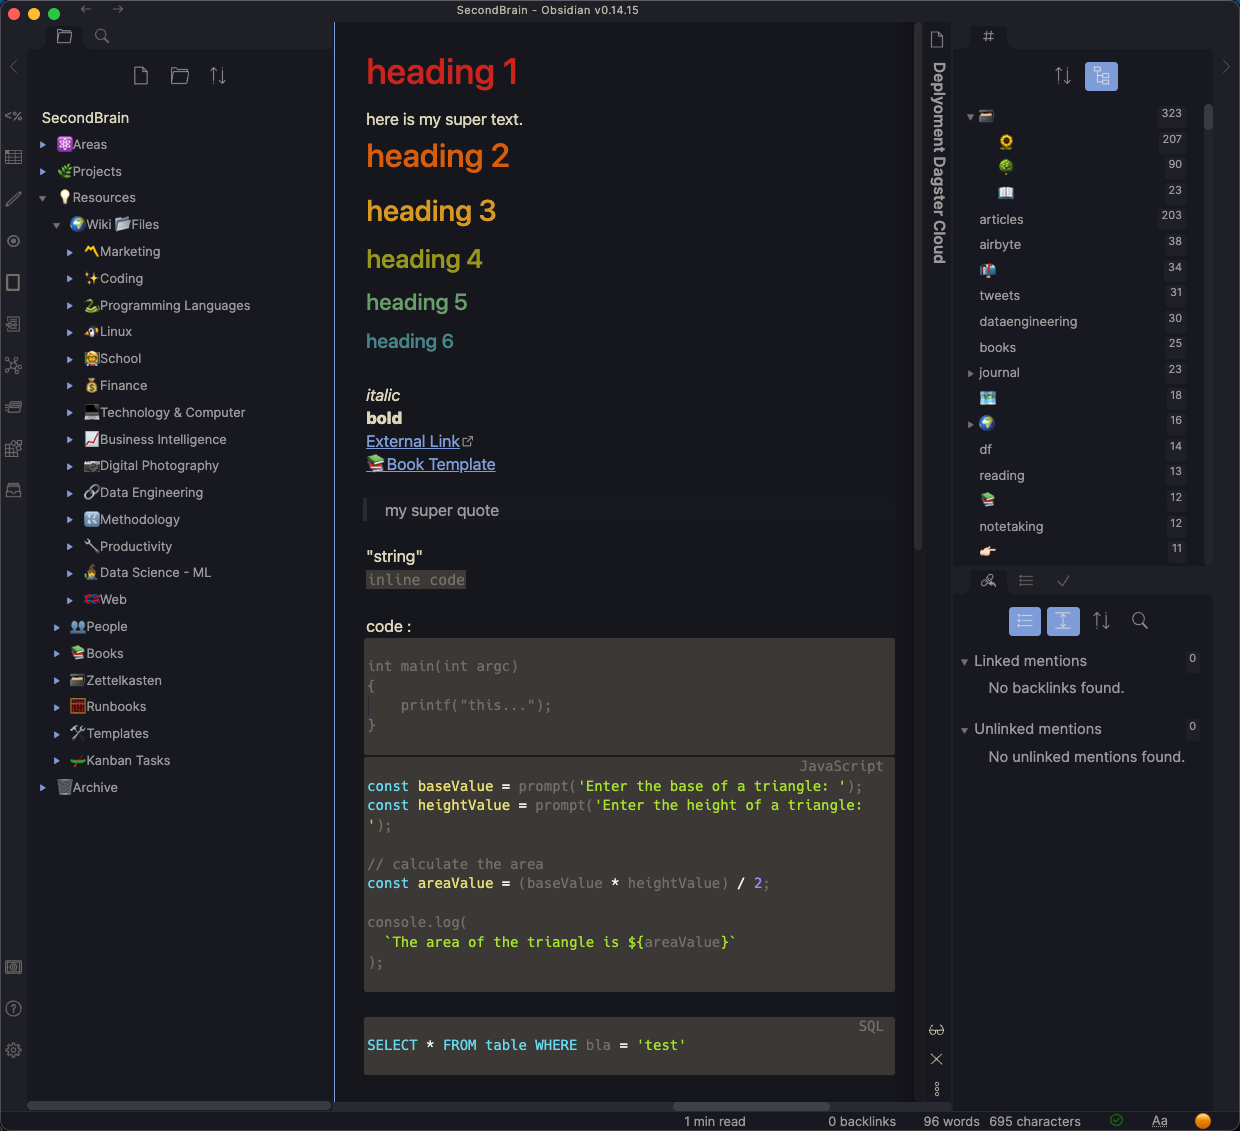
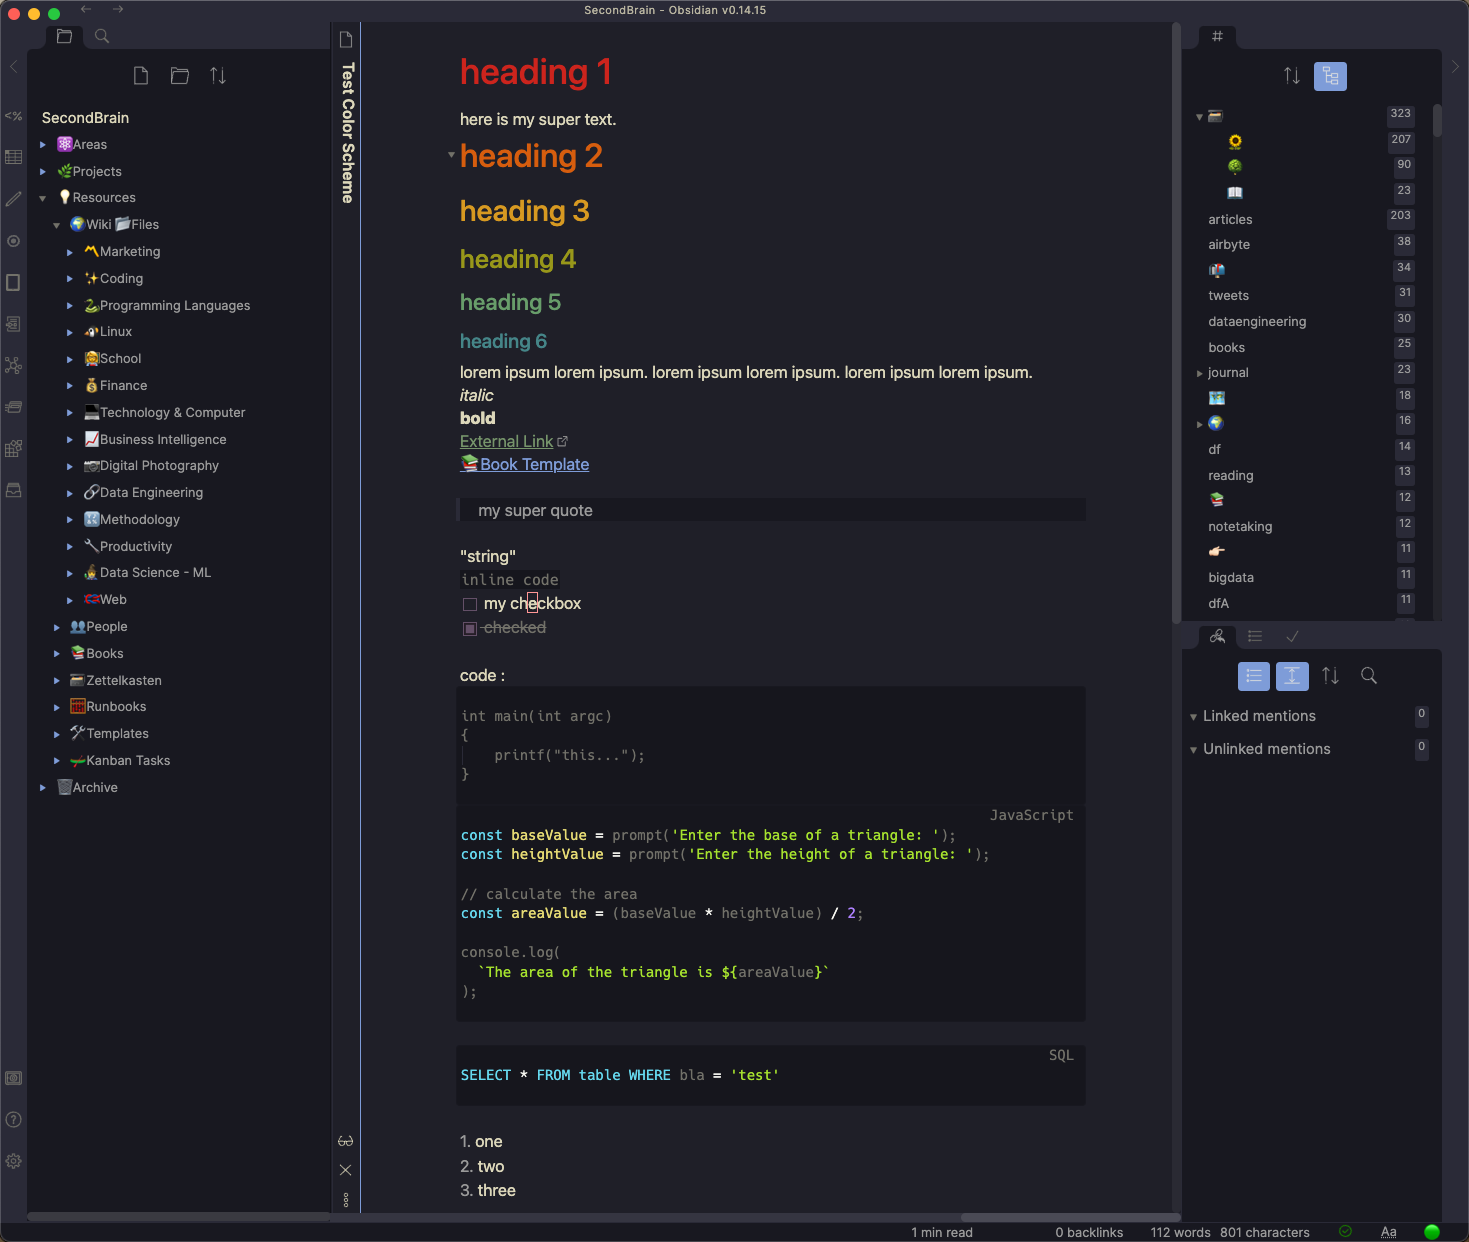
change colors a bit

diff --git a/obsidian_kanagawa.css b/obsidian_kanagawa.css
@@ -99,10 +99,10 @@
 
 .theme-dark
 {
-    --background-primary:         var(--sumiInk0);
-    --background-primary-alt:     var(--sumiInk0);
+    --background-primary:         var(--sumiInk1);
+    --background-primary-alt:     var(--sumiInk1);
     --background-secondary:       var(--sumiInk1b);
-    --background-secondary-alt:   var(--sumiInk1);
+    --background-secondary-alt:   var(--sumiInk2);
     --text-normal:                var(--fujiWhite);
     --text-faint:                 var(--fujiGray);
     --text-title-h1:              var(--neutral-red);
@@ -114,18 +114,18 @@
     --text-link:                  var(--springBlue);
     --text-a:                     var(--crystalBlue);
     --text-a-hover:               var(--oldWhite);
-    --text-mark:                  rgba(215, 153, 33, 0.4); /* neutral-yellow */
-    --pre-code:                   var(--dark1);
+    --text-mark:                  rgba(34, 50, 73, 0.4); /* waveBlue1 */
+    --pre-code:                   var(--sumiInk0);
     --text-highlight-bg:          var(--waveBlue1);
     --interactive-accent:         var(--crystalBlue);
     --interactive-before:         var(--sumiInk4);
     --background-modifier-border: var(--sumiInk2);
-    --text-accent:                var(--crystalBlue);
+    --text-accent:                var(--autumnGreen);
     --interactive-accent-rgb:     var(--springGreen);
     --inline-code:                var(--fujiGray);
     --code-block:                 var(--fujiGray);
-    --vim-cursor:                 var(--neutral-orange);
-    --text-selection:             rgba(168, 153, 132, 0.5); /* light4 */
+    --vim-cursor:                 var(--fujiWhite);
+    --text-selection:             rgba(34, 50, 73, 0.5); /* waveBlue1 */
     --text-tag:                   var(--bright-aqua);
     --task-checkbox:              var(--sumiInk4);
     --table-header:               hsl(0, 0%, 14%);
